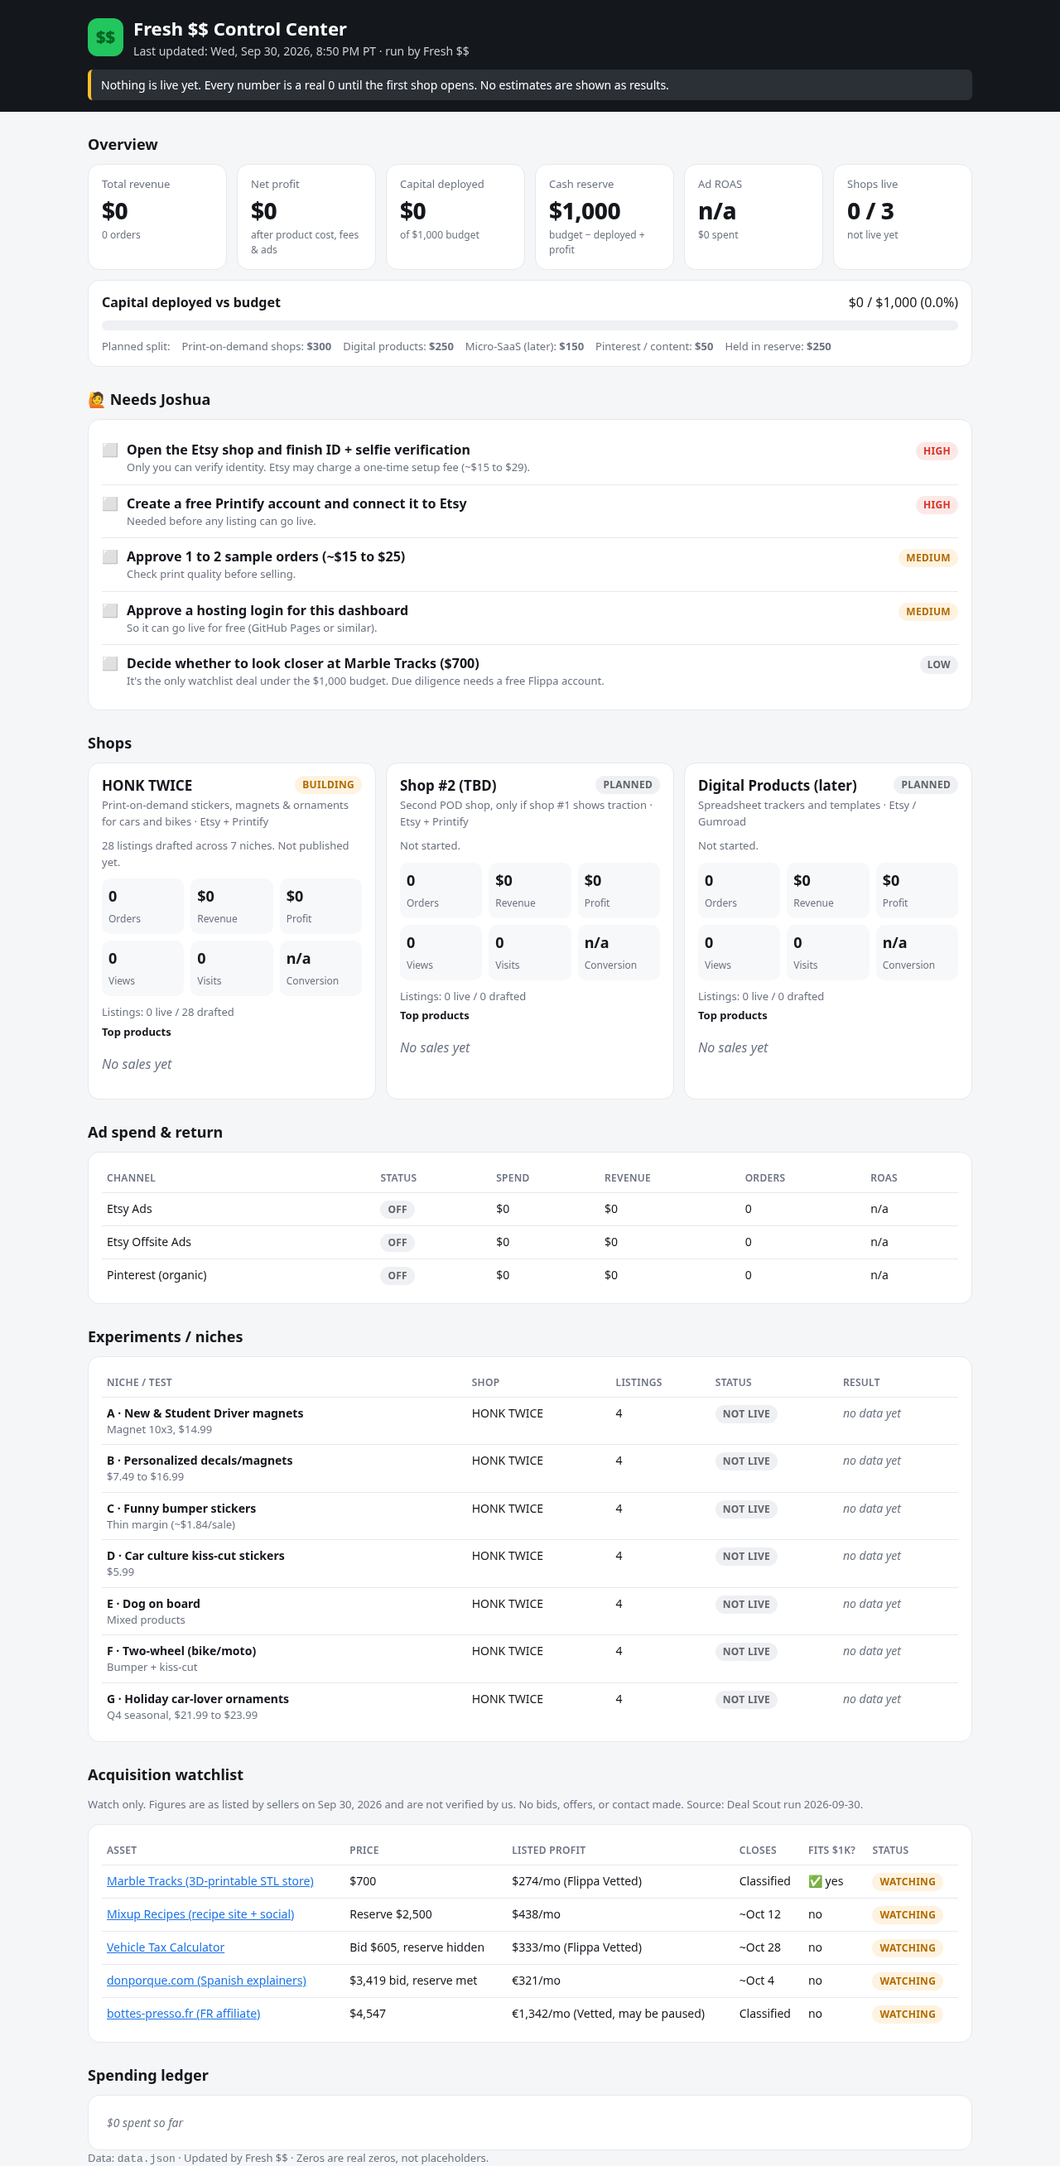
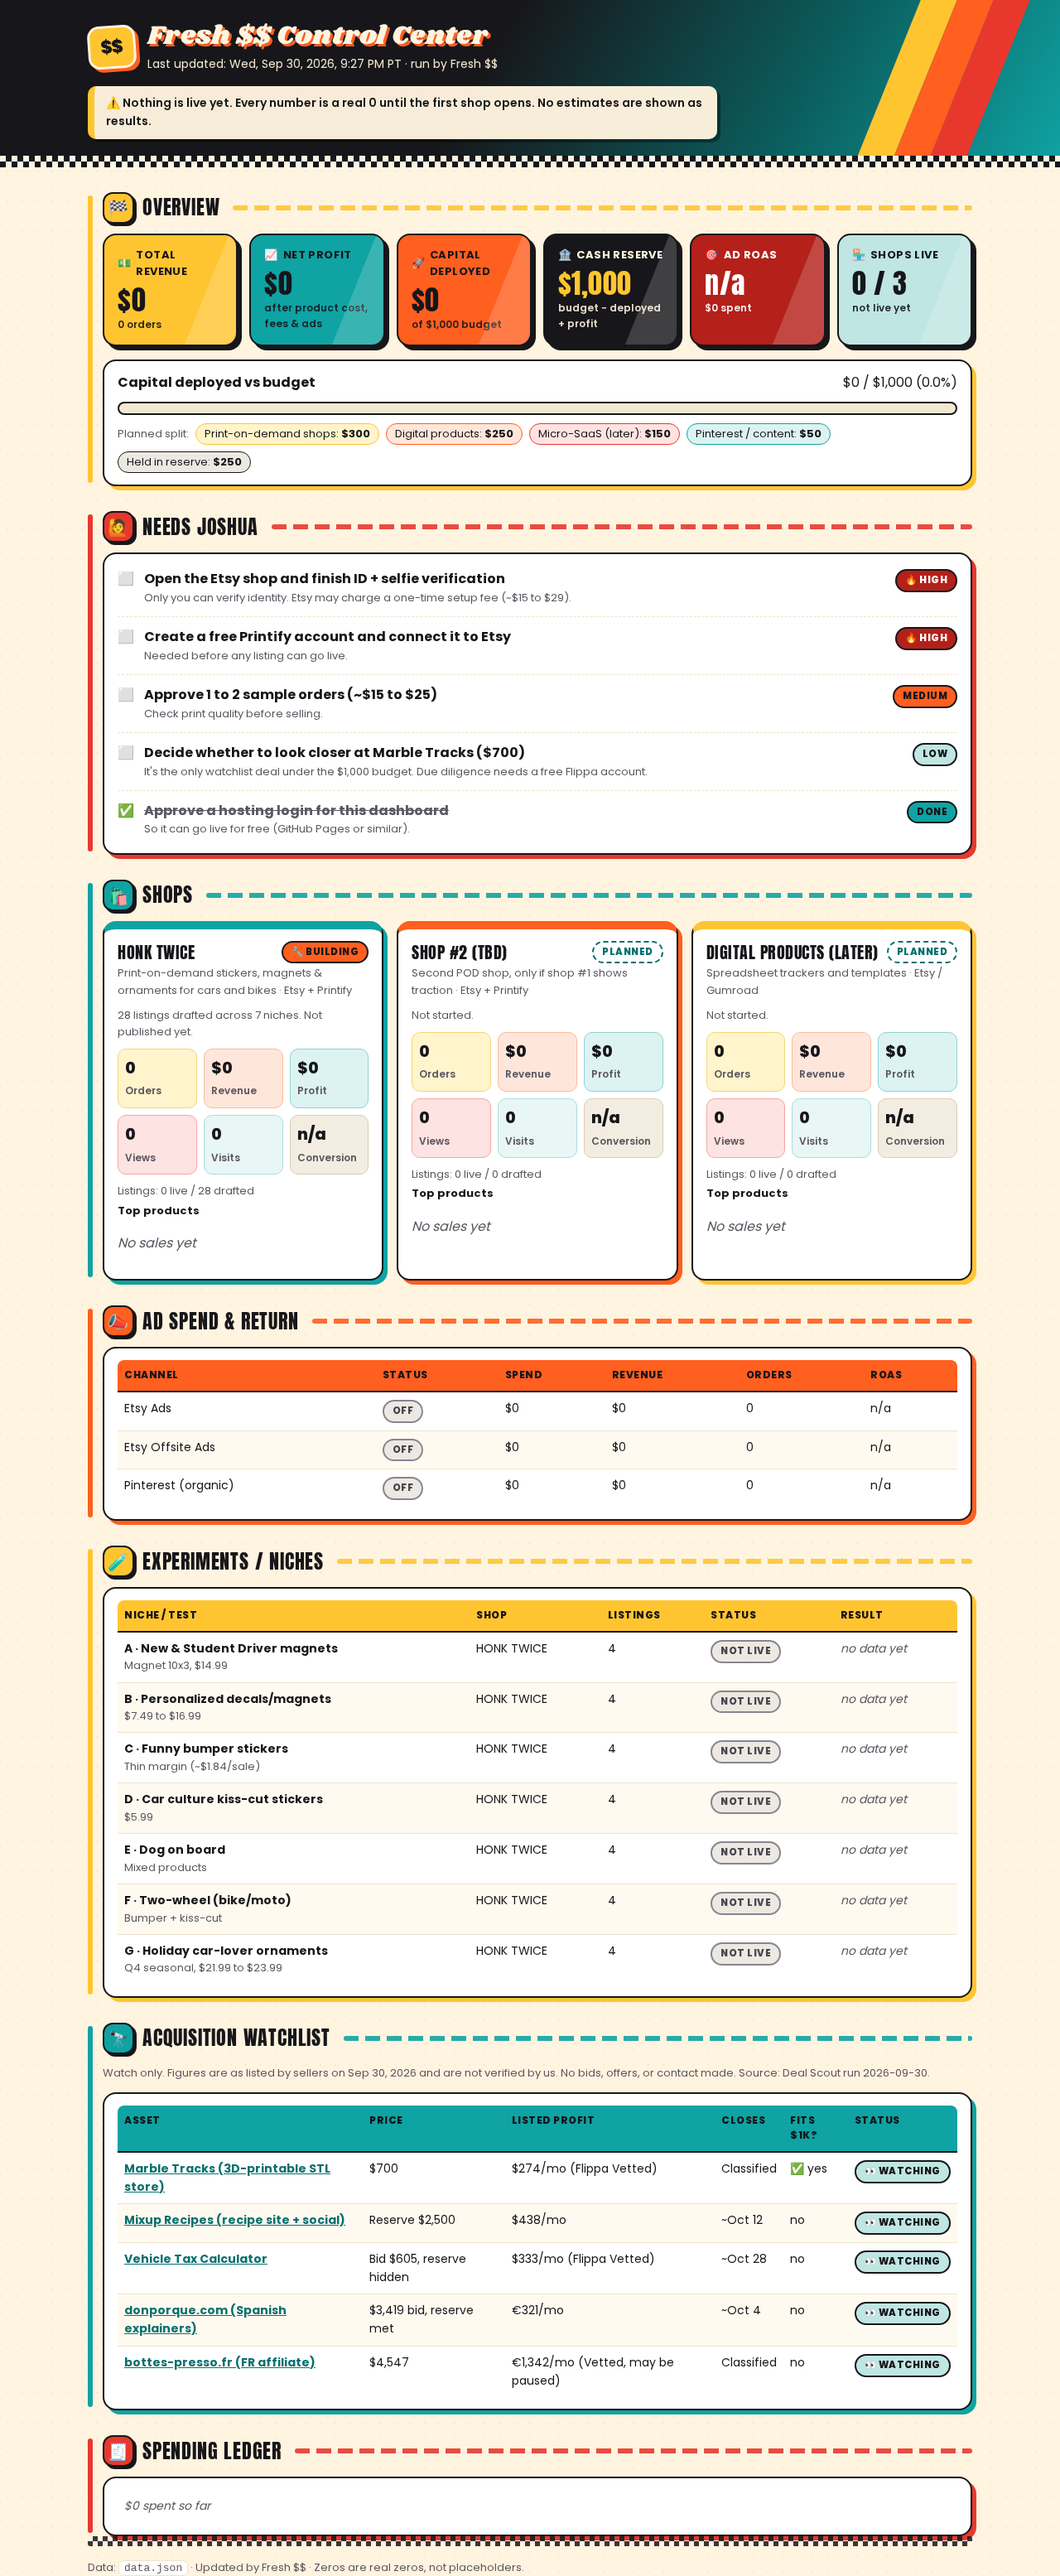
Colorful restyle

diff --git a/style.css b/style.css
@@ -1,32 +1,141 @@
-:root{--bg:#f5f6f8;--card:#fff;--ink:#14171c;--muted:#6b7280;--line:#e6e8ec;--green:#0f9d58;--red:#d93025;--amber:#b26a00;--blue:#1a73e8;--grey:#9aa0a6}
-*{box-sizing:border-box}body{margin:0;font:16px/1.5 system-ui,-apple-system,Segoe UI,Roboto,sans-serif;background:var(--bg);color:var(--ink)}
+/* Honk Twice palette: Asphalt #17161A · Cream #FFF4DF · Hazard Yellow #FFC531 · Signal Orange #FF5F1F · Brake Red #E8382E · Retro Teal #0FA3A3 */
+:root{
+  --asphalt:#17161A;--cream:#FFF4DF;--yellow:#FFC531;--orange:#FF5F1F;--red:#E8382E;--teal:#0FA3A3;--mint:#BFE6E3;
+  /* darker text-safe variants (≥4.5:1 on white/cream) */
+  --teal-ink:#06706F;--orange-ink:#B23A06;--red-ink:#B4201A;--yellow-ink:#7A5600;
+  --bg:var(--cream);--card:#fff;--ink:var(--asphalt);--muted:#5b5660;--line:#efe3cc;
+  --accent:var(--yellow);
+}
+*{box-sizing:border-box}
+body{margin:0;font:16px/1.55 Poppins,system-ui,-apple-system,Segoe UI,Roboto,sans-serif;background:var(--bg);color:var(--ink);
+  background-image:radial-gradient(rgba(23,22,26,.045) 1px,transparent 1.2px);background-size:18px 18px}
 .wrap{max-width:1100px;margin:0 auto;padding:0 16px}
-.top{background:#14171c;color:#fff;padding:18px 0 14px;margin-bottom:8px}
-.brand{display:flex;gap:12px;align-items:center}.logo{background:#22c55e;color:#062;font-weight:900;border-radius:12px;padding:8px 10px;font-size:20px}
-h1{margin:0;font-size:22px}.sub{margin:0;color:#c9ced6;font-size:14px}
-.banner{margin-top:12px;background:#2b2f36;border-left:4px solid #fbbf24;padding:8px 12px;border-radius:6px;font-size:14px}
-h2{font-size:18px;margin:26px 0 10px}
-.kpis{display:grid;grid-template-columns:repeat(auto-fit,minmax(160px,1fr));gap:12px;margin-bottom:12px}
-.kpi,.card{background:var(--card);border:1px solid var(--line);border-radius:14px;padding:14px 16px}
-.kpi .l{color:var(--muted);font-size:13px}.kpi .v{font-size:28px;font-weight:800;letter-spacing:-.5px}.kpi .s{font-size:12px;color:var(--muted)}
-.grid{display:grid;grid-template-columns:repeat(auto-fit,minmax(300px,1fr));gap:12px}
+
+/* ---------- Header ---------- */
+.top{position:relative;overflow:hidden;color:var(--cream);padding:26px 0 34px;margin-bottom:6px;
+  background:linear-gradient(120deg,#17161A 0%,#17161A 45%,#0b5f5f 75%,#0FA3A3 100%)}
+.top .wrap{position:relative;z-index:1}
+.stripes{position:absolute;top:-20px;bottom:-20px;right:6%;display:flex;transform:skewX(-22deg);z-index:0}
+.stripes i{display:block;width:44px;height:100%}
+.stripes i:nth-child(1){background:var(--yellow)}.stripes i:nth-child(2){background:var(--orange)}.stripes i:nth-child(3){background:var(--red)}
+.checker{position:absolute;left:0;right:0;bottom:0;height:14px;
+  background:repeating-conic-gradient(var(--asphalt) 0 25%,var(--cream) 0 50%) 0 0/14px 14px}
+.brand{display:flex;gap:14px;align-items:center}
+.logo{background:var(--yellow);color:var(--asphalt);font:900 22px/1 Poppins,system-ui,sans-serif;border-radius:14px;padding:12px 12px;
+  border:3px solid var(--cream);box-shadow:4px 4px 0 var(--orange);transform:rotate(-4deg)}
+h1{margin:0;font:400 32px/1.15 Shrikhand,Georgia,serif;color:var(--cream);text-shadow:3px 3px 0 var(--orange);letter-spacing:.3px}
+.sub{margin:4px 0 0;color:#f2e6cf;font-size:14px}
+.banner{margin-top:16px;max-width:760px;background:rgba(255,244,223,.97);color:var(--asphalt);border-left:8px solid var(--yellow);
+  padding:10px 14px;border-radius:10px;font-size:14px;font-weight:600;box-shadow:4px 4px 0 rgba(0,0,0,.35)}
+.banner::before{content:"⚠ ";}
+
+/* ---------- Sections ---------- */
+.sec{position:relative;margin-top:30px;padding-left:18px}
+.sec::before{content:"";position:absolute;left:0;top:4px;bottom:4px;width:6px;border-radius:6px;background:var(--accent)}
+.c-yellow{--accent:var(--yellow);--accent-ink:var(--yellow-ink)}
+.c-orange{--accent:var(--orange);--accent-ink:var(--orange-ink)}
+.c-red{--accent:var(--red);--accent-ink:var(--red-ink)}
+.c-teal{--accent:var(--teal);--accent-ink:var(--teal-ink)}
+h2{display:flex;align-items:center;gap:10px;margin:0 0 12px;font:400 24px/1.2 Anton,Impact,"Arial Narrow",sans-serif;
+  text-transform:uppercase;letter-spacing:.8px;color:var(--asphalt)}
+h2::after{content:"";flex:1;height:6px;margin-left:6px;border-radius:3px;opacity:.9;
+  background:repeating-linear-gradient(90deg,var(--accent) 0 18px,transparent 18px 26px)}
+.ico{display:inline-grid;place-items:center;width:38px;height:38px;border-radius:12px;background:var(--accent);font-size:20px;
+  border:2px solid var(--asphalt);box-shadow:3px 3px 0 var(--asphalt)}
+
+/* ---------- Cards ---------- */
+.card{background:var(--card);border:2px solid var(--asphalt);border-radius:16px;padding:14px 16px;box-shadow:5px 5px 0 var(--accent)}
+.kpis{display:grid;grid-template-columns:repeat(auto-fit,minmax(160px,1fr));gap:14px;margin-bottom:16px}
+.kpi{border:2px solid var(--asphalt);border-radius:16px;padding:14px 16px;box-shadow:5px 5px 0 var(--asphalt);position:relative;overflow:hidden}
+.kpi::after{content:"";position:absolute;right:-18px;top:-10px;width:60px;height:140%;transform:skewX(-22deg);background:rgba(255,255,255,.18)}
+.kpi .l{font-size:13px;font-weight:700;text-transform:uppercase;letter-spacing:.4px;display:flex;gap:6px;align-items:center}
+.kpi .v{font:400 34px/1.15 Anton,Impact,sans-serif;letter-spacing:.5px;margin:4px 0 2px}
+.kpi .s{font-size:12px;font-weight:600;opacity:.9;min-height:1em}
+.k-yellow{background:var(--yellow);color:var(--asphalt)}
+.k-orange{background:var(--orange);color:var(--asphalt)}
+.k-teal{background:var(--teal);color:var(--asphalt)}
+.k-red{background:var(--red-ink);color:#fff}
+.k-asphalt{background:var(--asphalt);color:var(--cream)}.k-asphalt .v{color:var(--yellow)}
+.k-mint{background:var(--mint);color:var(--asphalt)}
+
+.grid{display:grid;grid-template-columns:repeat(auto-fit,minmax(300px,1fr));gap:16px}
 .row{display:flex;gap:8px;align-items:center}.between{justify-content:space-between}
-.bar{height:12px;background:#eef0f3;border-radius:99px;overflow:hidden;margin:10px 0}.bar span{display:block;height:100%;background:var(--blue);width:0}
-.alloc{display:flex;flex-wrap:wrap;gap:6px 14px;font-size:13px;color:var(--muted)}
-.pill{display:inline-block;font-size:12px;font-weight:700;padding:2px 9px;border-radius:99px;background:#eef0f3;color:#444;text-transform:uppercase;letter-spacing:.3px;white-space:nowrap}
-.pill.live,.pill.winner,.pill.on,.pill.done{background:#e6f4ea;color:var(--green)}
-.pill.loser,.pill.passed,.pill.high{background:#fce8e6;color:var(--red)}
-.pill.building,.pill.testing,.pill.medium,.pill.watching{background:#fef3e0;color:var(--amber)}
-.pill.planned,.pill.off,.pill.notlive,.pill.low{background:#eef0f3;color:#5f6368}
-.shop h3{margin:0;font-size:17px}.shop .t{color:var(--muted);font-size:13px;margin:2px 0 10px}
-.stats{display:grid;grid-template-columns:repeat(3,1fr);gap:8px;margin:10px 0}.stats div{background:#f7f8fa;border-radius:10px;padding:8px}
-.stats b{display:block;font-size:18px}.stats small{color:var(--muted);font-size:12px}
-table{width:100%;border-collapse:collapse;font-size:14px}th{text-align:left;color:var(--muted);font-weight:600;font-size:12px;text-transform:uppercase;letter-spacing:.3px}
-th,td{padding:8px 6px;border-bottom:1px solid var(--line);vertical-align:top}tr:last-child td{border-bottom:0}
-.list .item{display:flex;gap:10px;padding:10px 0;border-bottom:1px solid var(--line)}.list .item:last-child{border:0}
+.bar{height:16px;background:#f3e8d2;border:2px solid var(--asphalt);border-radius:99px;overflow:hidden;margin:10px 0}
+.bar span{display:block;height:100%;width:0;background:repeating-linear-gradient(-45deg,var(--orange) 0 10px,var(--yellow) 10px 20px)}
+.alloc{display:flex;flex-wrap:wrap;gap:8px;font-size:13px;color:var(--muted);align-items:center}
+.alloc span{background:var(--cream);border:1.5px solid var(--line);border-radius:99px;padding:2px 10px;color:var(--asphalt)}
+.alloc span:nth-of-type(5n+1){border-color:var(--yellow);background:#fff4cc}
+.alloc span:nth-of-type(5n+2){border-color:var(--orange);background:#ffe6db}
+.alloc span:nth-of-type(5n+3){border-color:var(--red);background:#fde3e1}
+.alloc span:nth-of-type(5n+4){border-color:var(--teal);background:#dcf3f2}
+.alloc span:nth-of-type(5n+5){border-color:var(--asphalt);background:#ece9e2}
+
+/* ---------- Pills ---------- */
+.pill{display:inline-block;font-size:11.5px;font-weight:800;padding:3px 10px;border-radius:99px;text-transform:uppercase;letter-spacing:.5px;
+  white-space:nowrap;border:2px solid var(--asphalt);background:#ece9e2;color:var(--asphalt)}
+.pill.live,.pill.on,.pill.done{background:var(--teal);color:var(--asphalt)}
+.pill.winner{background:var(--yellow);color:var(--asphalt)}.pill.winner::before{content:"🏆 "}
+.pill.live::before{content:"● "}
+.pill.loser,.pill.passed{background:var(--red-ink);color:#fff}
+.pill.building{background:var(--orange);color:var(--asphalt)}.pill.building::before{content:"🔧 "}
+.pill.testing{background:var(--yellow);color:var(--asphalt)}
+.pill.watching{background:var(--mint);color:var(--asphalt)}.pill.watching::before{content:"👀 "}
+.pill.planned{background:#fff;color:var(--teal-ink);border-style:dashed;border-color:var(--teal-ink)}
+.pill.off,.pill.notlive{background:#ece9e2;color:#4a4650;border-color:#8a8490}
+.pill.high{background:var(--red-ink);color:#fff}.pill.high::before{content:"🔥 "}
+.pill.medium{background:var(--orange);color:var(--asphalt)}
+.pill.low{background:var(--mint);color:var(--asphalt)}
+
+/* ---------- Shops ---------- */
+.shop{border-top:10px solid var(--asphalt)}
+.grid .shop:nth-child(4n+1){box-shadow:5px 5px 0 var(--teal);border-top-color:var(--teal)}
+.grid .shop:nth-child(4n+2){box-shadow:5px 5px 0 var(--orange);border-top-color:var(--orange)}
+.grid .shop:nth-child(4n+3){box-shadow:5px 5px 0 var(--yellow);border-top-color:var(--yellow)}
+.grid .shop:nth-child(4n+4){box-shadow:5px 5px 0 var(--red);border-top-color:var(--red)}
+.shop h3{margin:0;font:400 20px/1.2 Anton,Impact,sans-serif;letter-spacing:.5px;text-transform:uppercase}
+.shop .t{color:var(--muted);font-size:13px;margin:2px 0 10px}
+.shop ol{margin:4px 0 0;padding-left:20px;font-size:14px}
+.stats{display:grid;grid-template-columns:repeat(3,1fr);gap:8px;margin:10px 0}
+.stats div{border-radius:10px;padding:8px;border:1.5px solid transparent}
+.stats div:nth-child(6n+1){background:#fff4cc;border-color:#f3d77a}
+.stats div:nth-child(6n+2){background:#ffe6db;border-color:#ffb999}
+.stats div:nth-child(6n+3){background:#dcf3f2;border-color:#8fd3d1}
+.stats div:nth-child(6n+4){background:#fde3e1;border-color:#f5a6a1}
+.stats div:nth-child(6n+5){background:#e8f6f5;border-color:#a9dedb}
+.stats div:nth-child(6n+6){background:#f3ede1;border-color:#d9ccb3}
+.stats b{display:block;font-size:19px;font-weight:800}.stats small{color:var(--muted);font-size:12px;font-weight:600}
+
+/* ---------- Tables ---------- */
+table{width:100%;border-collapse:collapse;font-size:14px}
+th{text-align:left;color:var(--asphalt);font-weight:800;font-size:12px;text-transform:uppercase;letter-spacing:.5px;
+  background:var(--accent);border-bottom:2px solid var(--asphalt)!important}
+th:first-child{border-top-left-radius:8px}th:last-child{border-top-right-radius:8px}
+th,td{padding:9px 8px;border-bottom:1px solid var(--line);vertical-align:top}
+tbody tr:nth-child(even) td{background:#fffaf0}
+tr:last-child td{border-bottom:0}
+
+/* ---------- Needs list ---------- */
+.list{padding:6px 16px}
+.list .item{display:flex;gap:12px;align-items:flex-start;padding:12px 0;border-bottom:1.5px dashed var(--line)}.list .item:last-child{border:0}
 .item .w{color:var(--muted);font-size:13px}.item.done .x{text-decoration:line-through;color:var(--muted)}
 .muted{color:var(--muted);font-size:13px}.empty{color:var(--muted);font-style:italic}
-a{color:var(--blue)}footer{padding:30px 16px 40px}
-@media(max-width:640px){.kpi .v{font-size:22px}
- table.stack thead{display:none}table.stack tr{display:block;padding:8px 0;border-bottom:1px solid var(--line)}table.stack td{display:flex;justify-content:space-between;border:0;padding:3px 0}
- table.stack td::before{content:attr(data-l);color:var(--muted);font-size:12px;margin-right:12px}}
+a{color:var(--teal-ink);font-weight:700}
+code{background:#fff;border:1px solid var(--line);border-radius:6px;padding:1px 6px}
+footer{padding:34px 16px 46px;position:relative}
+footer::before{content:"";display:block;height:12px;margin-bottom:16px;border-radius:3px;
+  background:repeating-conic-gradient(var(--asphalt) 0 25%,transparent 0 50%) 0 0/12px 12px;opacity:.85}
+
+@media(max-width:640px){
+ .top{padding:20px 0 30px}h1{font-size:24px}.stripes{right:-78px;opacity:.9}.stripes i{width:24px}
+ .logo{font-size:18px;padding:10px}
+ .sec{padding-left:12px}.sec::before{width:5px}
+ h2{font-size:21px}.ico{width:32px;height:32px;font-size:17px}
+ .kpis{grid-template-columns:1fr 1fr;gap:10px}.kpi{padding:12px}.kpi .v{font-size:26px}.kpi .l{font-size:11.5px}
+ .grid{grid-template-columns:1fr}
+ th{display:none}
+ table.stack thead{display:none}table.stack tr{display:block;padding:10px 0;border-bottom:1.5px dashed var(--line)}
+ table.stack tbody tr:nth-child(even) td{background:none}
+ table.stack td .cv{display:block;min-width:0}
+ table.stack td{display:flex;justify-content:space-between;gap:12px;border:0;padding:3px 0;text-align:right}
+ table.stack td::before{content:attr(data-l);color:var(--accent-ink,var(--muted));font-weight:800;font-size:11.5px;text-transform:uppercase;letter-spacing:.4px;margin-right:12px;text-align:left;white-space:nowrap}
+}

diff --git a/index.html b/index.html
@@ -5,29 +5,34 @@
 <meta name="viewport" content="width=device-width,initial-scale=1">
 <meta name="robots" content="noindex,nofollow">
 <title>Fresh $$ Control Center</title>
-<link rel="stylesheet" href="style.css">
+<link rel="preconnect" href="https://fonts.googleapis.com">
+<link rel="preconnect" href="https://fonts.gstatic.com" crossorigin>
+<link href="https://fonts.googleapis.com/css2?family=Anton&family=Poppins:wght@400;600;700;800&family=Shrikhand&display=swap" rel="stylesheet">
+<link rel="stylesheet" href="style.css?v=2">
 </head>
 <body>
 <header class="top">
+  <div class="stripes" aria-hidden="true"><i></i><i></i><i></i></div>
   <div class="wrap">
     <div class="brand"><span class="logo">$$</span><div><h1 id="title">Fresh $$ Control Center</h1><p class="sub" id="updated">Loading…</p></div></div>
     <div class="banner" id="statusNote" hidden></div>
   </div>
+  <div class="checker" aria-hidden="true"></div>
 </header>
 <main class="wrap">
-  <section><h2>Overview</h2><div class="kpis" id="kpis"></div>
+  <section class="sec c-yellow"><h2><span class="ico" aria-hidden="true">🏁</span>Overview</h2><div class="kpis" id="kpis"></div>
     <div class="card"><div class="row between"><b>Capital deployed vs budget</b><span id="capLabel"></span></div>
       <div class="bar"><span id="capBar"></span></div>
       <div class="alloc" id="alloc"></div></div>
   </section>
-  <section><h2>🙋 Needs Joshua</h2><div class="card list" id="needs"></div></section>
-  <section><h2>Shops</h2><div class="grid" id="shops"></div></section>
-  <section><h2>Ad spend &amp; return</h2><div class="card"><table id="ads"></table></div></section>
-  <section><h2>Experiments / niches</h2><div class="card"><table id="exps"></table></div></section>
-  <section><h2>Acquisition watchlist</h2><p class="muted" id="acqNote"></p><div class="card"><table id="acq"></table></div></section>
-  <section><h2>Spending ledger</h2><div class="card"><table id="ledger"></table></div></section>
+  <section class="sec c-red"><h2><span class="ico" aria-hidden="true">🙋</span>Needs Joshua</h2><div class="card list" id="needs"></div></section>
+  <section class="sec c-teal"><h2><span class="ico" aria-hidden="true">🛍</span>Shops</h2><div class="grid" id="shops"></div></section>
+  <section class="sec c-orange"><h2><span class="ico" aria-hidden="true">📣</span>Ad spend &amp; return</h2><div class="card"><table id="ads"></table></div></section>
+  <section class="sec c-yellow"><h2><span class="ico" aria-hidden="true">🧪</span>Experiments / niches</h2><div class="card"><table id="exps"></table></div></section>
+  <section class="sec c-teal"><h2><span class="ico" aria-hidden="true">🔭</span>Acquisition watchlist</h2><p class="muted" id="acqNote"></p><div class="card"><table id="acq"></table></div></section>
+  <section class="sec c-red"><h2><span class="ico" aria-hidden="true">🧾</span>Spending ledger</h2><div class="card"><table id="ledger"></table></div></section>
 </main>
 <footer class="wrap muted">Data: <code>data.json</code> · Updated by Fresh $$ · Zeros are real zeros, not placeholders.</footer>
-<script src="app.js"></script>
+<script src="app.js?v=2"></script>
 </body>
 </html>

diff --git a/app.js b/app.js
@@ -8,7 +8,7 @@ const table = (el, cols, rows, empty) => {
   if (!rows.length) { $(el).innerHTML = `<tr><td class="empty">${empty}</td></tr>`; return; }
   $(el).className = "stack";
   $(el).innerHTML = `<thead><tr>${cols.map(c => `<th>${c[0]}</th>`).join("")}</tr></thead><tbody>` +
-    rows.map(r => `<tr>${cols.map(c => `<td data-l="${c[0]}">${c[1](r)}</td>`).join("")}</tr>`).join("") + "</tbody>";
+    rows.map(r => `<tr>${cols.map(c => `<td data-l="${c[0]}"><span class="cv">${c[1](r)}</span></td>`).join("")}</tr>`).join("") + "</tbody>";
 };
 function fmtPT(iso) {
   const d = new Date(iso);
@@ -32,7 +32,8 @@ function render(D) {
     ["Ad ROAS", adSpend ? (adRev / adSpend).toFixed(2) + "x" : "n/a", `${usd(adSpend)} spent`],
     ["Shops live", `${live} / ${shops.length}`, live ? "" : "not live yet"],
   ];
-  $("kpis").innerHTML = k.map(([l, v, s]) => `<div class="kpi"><div class="l">${l}</div><div class="v">${v}</div><div class="s">${esc(s)}</div></div>`).join("");
+  const kc = [["k-yellow", "💵"], ["k-teal", "📈"], ["k-orange", "🚀"], ["k-asphalt", "🏦"], ["k-red", "🎯"], ["k-mint", "🏪"]];
+  $("kpis").innerHTML = k.map(([l, v, s], i) => `<div class="kpi ${kc[i][0]}"><div class="l"><span class="ki" aria-hidden="true">${kc[i][1]}</span>${l}</div><div class="v">${v}</div><div class="s">${esc(s)}</div></div>`).join("");
   $("capLabel").textContent = `${usd(deployed)} / ${usd(budget)} (${pct(deployed / budget)})`;
   $("capBar").style.width = Math.min(100, deployed / budget * 100) + "%";
   $("alloc").innerHTML = "Planned split: " + D.budget.planned_allocation.map(a => `<span>${esc(a.lane)}: <b>${usd(a.amount)}</b></span>`).join("");
